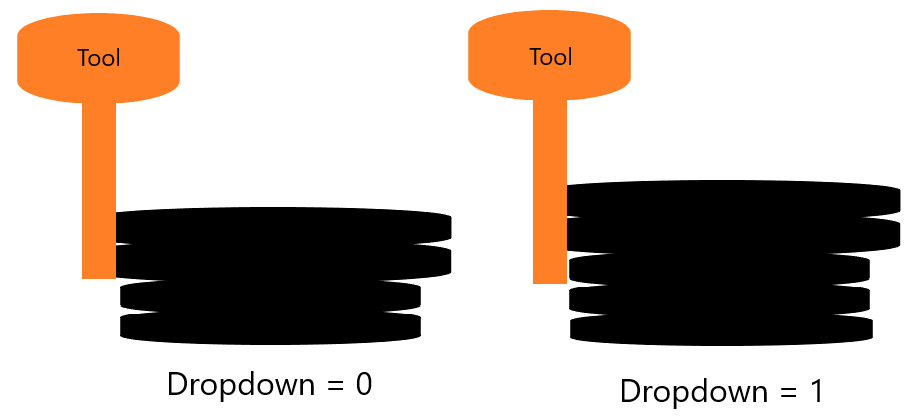
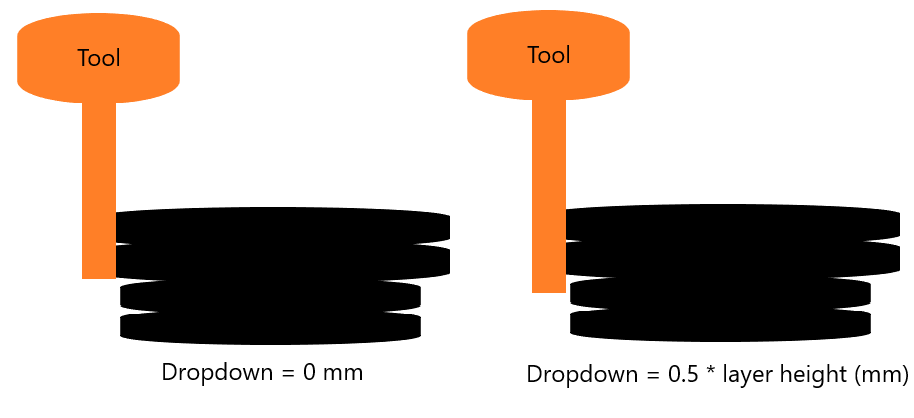
rename dropdown to overlap rename intersect to dropdown Sorry for any confusion when looking back, this naming makes more sense to me Save output file in users workspace provide user with progress indicator

diff --git a/fusion_api/Handlers.py b/fusion_api/Handlers.py
@@ -24,7 +24,8 @@ def generateAllTootpaths(ui, cam):
 
     # Generate all toolpaths
     future = cam.generateAllToolpaths(False)
-    message = 'The toolpaths for all operations in the document have been generated.'
+    message = '<br>Please do not press OK until the Additive toolpath has finished.</br>\
+        <br>The toolpaths for all cam operations in the document have been generated.</br>'
 
     numOps = future.numberOfOperations
 
@@ -66,7 +67,7 @@ def generateAllTootpaths(ui, cam):
     ui.messageBox(message)
 
 
-def postToolpaths(ui, cam):
+def postToolpaths(ui, cam, viewResult):
     # Check CAM data exists.
     if not cam:
         ui.messageBox('No CAM data exists in the active document.')
@@ -89,15 +90,6 @@ def postToolpaths(ui, cam):
 
     # specify the NC file output units
     units = adsk.cam.PostOutputUnitOptions.DocumentUnitsOutput
-
-    # prompt the user with an option to view the resulting NC file.
-    viewResults = ui.messageBox('View intermediate results when post is complete?', 'Post NC Files',
-                                adsk.core.MessageBoxButtonTypes.YesNoButtonType,
-                                adsk.core.MessageBoxIconTypes.QuestionIconType)
-    if viewResults == adsk.core.DialogResults.DialogNo:
-        viewResult = False
-    else:
-        viewResult = True
 
     for i in range(setupsCount):
         setup = cam.setups.item(i)
@@ -179,6 +171,11 @@ class SetupCreatedEventHandler(adsk.core.CommandCreatedEventHandler):
 
             # Create bool value input to check whether you should generate toolpaths.
             tabSettingsChildInputs.addBoolValueInput('generateToolpaths', 'Generate Toolpaths', True, '', False)
+            
+            tabSettingsChildInputs.addBoolValueInput('viewIntermediateFiles', 'View Intermediate Files', True, '', False)
+
+            # Create an editable textbox input.
+            tabSettingsChildInputs.addTextBoxCommandInput('outputName', 'Output File Name', '1001', 1, False)
 
             # groupPrintCmdInput = tabSettingsChildInputs.addGroupCommandInput('print', 'Print Settings')
             # groupPrintCmdInput.isExpanded = True
@@ -189,21 +186,21 @@ class SetupCreatedEventHandler(adsk.core.CommandCreatedEventHandler):
             groupCamChildInputs = groupCamCmdInput.children
 
             # Create CAM inputs
-            layerDropdownInput = groupCamChildInputs.addIntegerSpinnerCommandInput('layerDropdown', 'Layer Dropdown', 0, 10000, 1, 1)
-            layerDropdownInput.tooltip = 'Controls how many layers the cutting tip should overlap previously cut layers'
-            layerDropdownInput.tooltipDescription = '\
+            layerOverlapInput = groupCamChildInputs.addIntegerSpinnerCommandInput('layerOverlap', 'Layer Overlap', 0, 10000, 1, 1)
+            layerOverlapInput.tooltip = 'Controls how many layers the cutting tip should overlap previously cut layers'
+            layerOverlapInput.tooltipDescription = '\
                 <br>A higher value generally makes for a better finish as it uses the side of the cutter instead of the tip, \
                 however this is not always possible depending on the geometry.</br>\
                 <br>Limited by cutter length</br>\
                 <br>This does not alter the toolpath, only when it happens</br>'
-            layerDropdownInput.toolClipFilename = os.path.join(os.path.dirname(os.path.dirname(os.path.realpath(__file__))), 'resources', 'GenerateAsmbl', 'tooltip_dropdown.png')
+            layerOverlapInput.toolClipFilename = os.path.join(os.path.dirname(os.path.dirname(os.path.realpath(__file__))), 'resources', 'GenerateAsmbl', 'tooltip_overlap.png')
 
-            layerIntersectInput = groupCamChildInputs.addFloatSpinnerCommandInput('layerIntersect', 'Layer Intersect', 'mm', 0, 1, 0.1, 0)
-            layerIntersectInput.tooltip = 'Controls how much the cutting tip should be lowered on a global level'
-            layerIntersectInput.tooltipDescription = '\
+            layerDropdownInput = groupCamChildInputs.addFloatSpinnerCommandInput('layerDropdown', 'Layer Dropdown', 'mm', 0, 1, 0.1, 0)
+            layerDropdownInput.tooltip = 'Controls how much the cutting tip should be lowered on a global level'
+            layerDropdownInput.tooltipDescription = '\
                 <br>Set this to 0 mm for accurate parts. Setting it equal to half a layer height can create smoother cut surfaces</br>\
                 <br>This shifts the entire subtractive toolpath by this amount</br>'
-            layerIntersectInput.toolClipFilename = os.path.join(os.path.dirname(os.path.dirname(os.path.realpath(__file__))), 'resources', 'GenerateAsmbl', 'tooltip_intersect.png')
+            layerDropdownInput.toolClipFilename = os.path.join(os.path.dirname(os.path.dirname(os.path.realpath(__file__))), 'resources', 'GenerateAsmbl', 'tooltip_dropdown.png')
 
         except:
             ui.messageBox('Failed:\n{}'.format(traceback.format_exc()))
@@ -225,8 +222,10 @@ class SetupExecuteHandler(adsk.core.CommandEventHandler):
         inputs = eventArgs.command.commandInputs
 
         generateToolpaths = inputs.itemById('generateToolpaths').value
+        viewIntermediateFiles = inputs.itemById('viewIntermediateFiles').value
+        layerOverlap = inputs.itemById('layerOverlap').value
         layerDropdown = inputs.itemById('layerDropdown').value
-        layerIntersect = inputs.itemById('layerIntersect').value
+        outputName = inputs.itemById('outputName').text
 
         doc = app.activeDocument
         products = doc.products
@@ -240,15 +239,21 @@ class SetupExecuteHandler(adsk.core.CommandEventHandler):
                 ui.messageBox('Failed generating toolpaths:\n{}'.format(traceback.format_exc()))
                 return
         
+        #  create and show the progress dialog for remainder of process.
+        progress = ui.createProgressDialog()
+        progress.isCancelButtonShown = False
+        progress.show('ASMBL Code Generation', 'Posting Toolpaths', 0, 10)
+
         try:
-            postToolpaths(ui, cam)
+            postToolpaths(ui, cam, viewIntermediateFiles)
+            time.sleep(3)
         except:
             ui.messageBox('Failed posting toolpaths:\n{}'.format(traceback.format_exc()))
             return
 
         outputFolder = cam.temporaryFolder
         tmpAdditive = os.path.join(outputFolder, 'tmpAdditive.gcode')
-        tmpSubtractive = os.path.join(outputFolder, 'tmpSubtractive.nc')
+        tmpSubtractive = os.path.join(outputFolder, 'tmpSubtractive.gcode')
 
         config = {
             "InputFiles": {
@@ -263,18 +268,18 @@ class SetupExecuteHandler(adsk.core.CommandEventHandler):
                 "raft_height": 0   # alignment is done in Fusion
             },
             "CamSettings": {
-                "layer_dropdown": layerDropdown,
-                "layer_intersect": layerIntersect
+                "layer_overlap": layerOverlap,
+                "layer_dropdown": layerDropdown
             },
             "OutputSettings": {
-                "filename": "tmp"
+                "filename": outputName
             }
         }
-        ui.messageBox(config.__str__())
+        # ui.messageBox(config.__str__())
 
         try:
-            asmbl_parser = Parser(config)
-            asmbl_parser.create_output_file(asmbl_parser.merged_gcode_script)
+            asmbl_parser = Parser(config, progress)
+            asmbl_parser.create_output_file(asmbl_parser.merged_gcode_script, '~/Asmbl/output/')
         except:
             ui.messageBox('Failed combing gcode files:\n{}'.format(traceback.format_exc()))
             return

diff --git a/ASMBL_parser.py b/ASMBL_parser.py
@@ -103,12 +103,13 @@ class CamGcodeLayer:
 class Parser:
     """ Main parsing class. """
 
-    def __init__(self, config):
+    def __init__(self, config, progress=None):
         self.config = config
+        self.progress = progress    # progress bar for Fusion add-in
         self.offset = (config['Printer']['bed_centre_x'],
                        config['Printer']['bed_centre_y'],
 
-                       config['PrintSettings']['raft_height'] - config['CamSettings']['layer_intersect']
+                       config['PrintSettings']['raft_height'] - config['CamSettings']['layer_dropdown']
                        )
 
         self.last_additive_tool = None
@@ -117,14 +118,36 @@ class Parser:
         self.main()
 
     def main(self):
+        progress = self.progress
+
+        if progress:
+            progress.message = 'Opening files'
+            progress.progressValue += 1
         self.open_files(self.config)
 
+        if progress:
+            progress.message = 'Spliting additive gcode layers'
+            progress.progressValue += 1
         self.gcode_add_layers = self.split_additive_layers(self.gcode_add)
 
+        if progress:
+            progress.message = 'Spliting subtractive gcode layers'
+            progress.progressValue += 1
         operations = self.split_cam_operations(self.gcode_sub)
+
+        if progress:
+            progress.message = 'Ordering subtractive gcode layers'
+            progress.progressValue += 1
         self.cam_operations = self.order_cam_operations_by_layer(operations)
 
+        if progress:
+            progress.message = 'Merging gcode layers'
+            progress.progressValue += 1
         self.merged_gcode = self.merge_gcode_layers(self.gcode_add_layers, self.cam_operations)
+
+        if progress:
+            progress.message = 'Creating gcode script'
+            progress.progressValue += 1
         self.create_gcode_script(self.merged_gcode)
 
     def open_files(self, config):
@@ -207,7 +230,7 @@ class Parser:
                     unordered_ops.append(op_instance)
 
         ordered_operations = sorted(unordered_ops, key=lambda x: x.height)
-        layer_dropdown = self.config['CamSettings']['layer_dropdown']
+        layer_overlap = self.config['CamSettings']['layer_overlap']
 
         for i, operation in enumerate(ordered_operations):
             later_ops = [op for op in ordered_operations if op.height > operation.height]
@@ -215,14 +238,14 @@ class Parser:
                 next_op_height = min([op.height for op in later_ops])
                 later_additive = [layer for layer in self.gcode_add_layers if layer.layer_height > next_op_height]
 
-                if layer_dropdown == 0:
+                if layer_overlap == 0:
                     operation.layer_height = next_op_height
 
                 elif len(later_additive) == 0:
                     operation.layer_height = next_op_height
 
-                elif len(later_additive) >= layer_dropdown:
-                    operation.layer_height = later_additive[layer_dropdown - 1].layer_height
+                elif len(later_additive) >= layer_overlap:
+                    operation.layer_height = later_additive[layer_overlap - 1].layer_height
 
                 else:
                     operation.layer_height = later_additive[-1].layer_height
@@ -230,8 +253,8 @@ class Parser:
             else:  # no later ops
                 later_additive = [layer for layer in self.gcode_add_layers if layer.layer_height > operation.height]
 
-                if len(later_additive) >= layer_dropdown:
-                    operation.layer_height = later_additive[layer_dropdown - 1].layer_height
+                if len(later_additive) >= layer_overlap:
+                    operation.layer_height = later_additive[layer_overlap - 1].layer_height
                 
                 elif len(later_additive) == 0:   # no further printing
                     # add 10 since it is unlikely that the printed layer height will exceed 10 mm
@@ -273,10 +296,11 @@ class Parser:
         elif type(layer) == CamGcodeLayer:
             self.merged_gcode_script += layer.tool + '\n'
 
-    def create_output_file(self, gcode):
+    def create_output_file(self, gcode, folder_path="output/", relative_path=True):
         """ Saves the file to the output folder """
-        file_path = "output/" + self.config['OutputSettings']['filename'] + ".gcode"
+        file_path = folder_path + self.config['OutputSettings']['filename'] + ".gcode"
 
+        file_path = os.path.expanduser(file_path)
         os.makedirs(os.path.dirname(file_path), exist_ok=True)
 
         with open(file_path, "w") as f:

diff --git a/README.md b/README.md
@@ -184,8 +184,8 @@ Update the `config.json` so that the following settings are correct for your pro
         "layer_height": "layer height of printed part"
     },
     "CamSettings": {
-        "layer_dropdown": "How many layers the tip of the cutter should be lower than the layers being cut",
-        "layer_intersect": "What percentage (0-1) of a layer line should the tip of the cutter sit at when cutting"
+        "layer_overlap": "How many layers the tip of the cutter should be lower than the layers being cut",
+        "layer_dropdown": "What number of mm the tip of the cutter should be lowered by"
     },
     "OutputSettings": {
         "filename": "Name of the output file containing the merged gcode script
